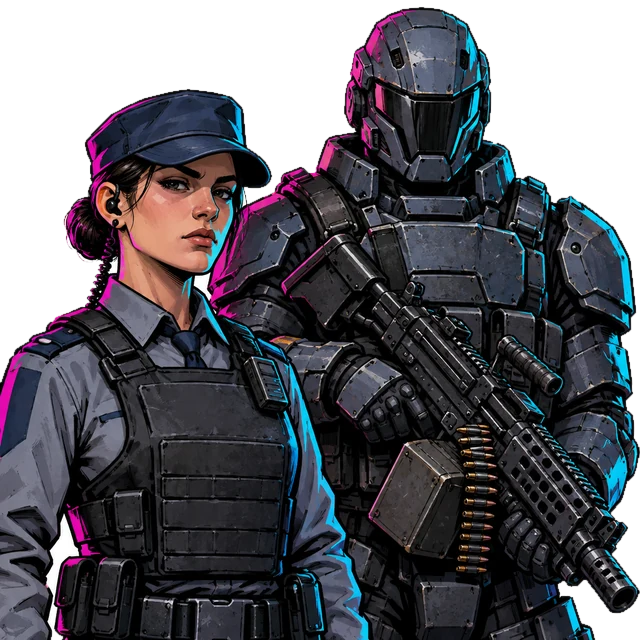
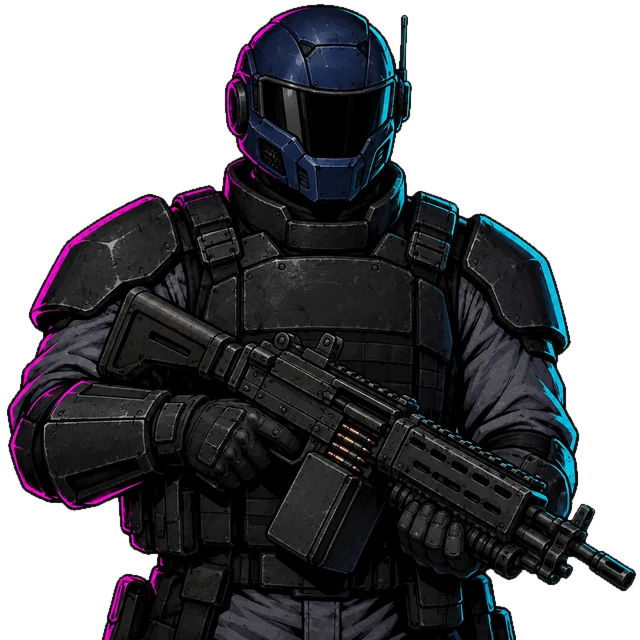
1.27.2: the Superheavy Guard's portrait is redrawn as one guard in the contractors' colours

diff --git a/CHANGELOG.md b/CHANGELOG.md
@@ -1,5 +1,11 @@
 # Changelog
 
+## 1.27.2
+
+- **The Superheavy Guard's portrait is redrawn.** It showed two people, a guard in a cap with an armored figure
+  behind her. It is now the one guard the block describes, in black armor over the contractors' slate-grey uniform, with a
+  sealed navy helmet and a machine gun, and its round token is rebuilt from it.
+
 ## 1.27.1
 
 - **Fixed: mook tokens spilled over their ring.** The 132 mooks without a top-down token stood on the map as their
